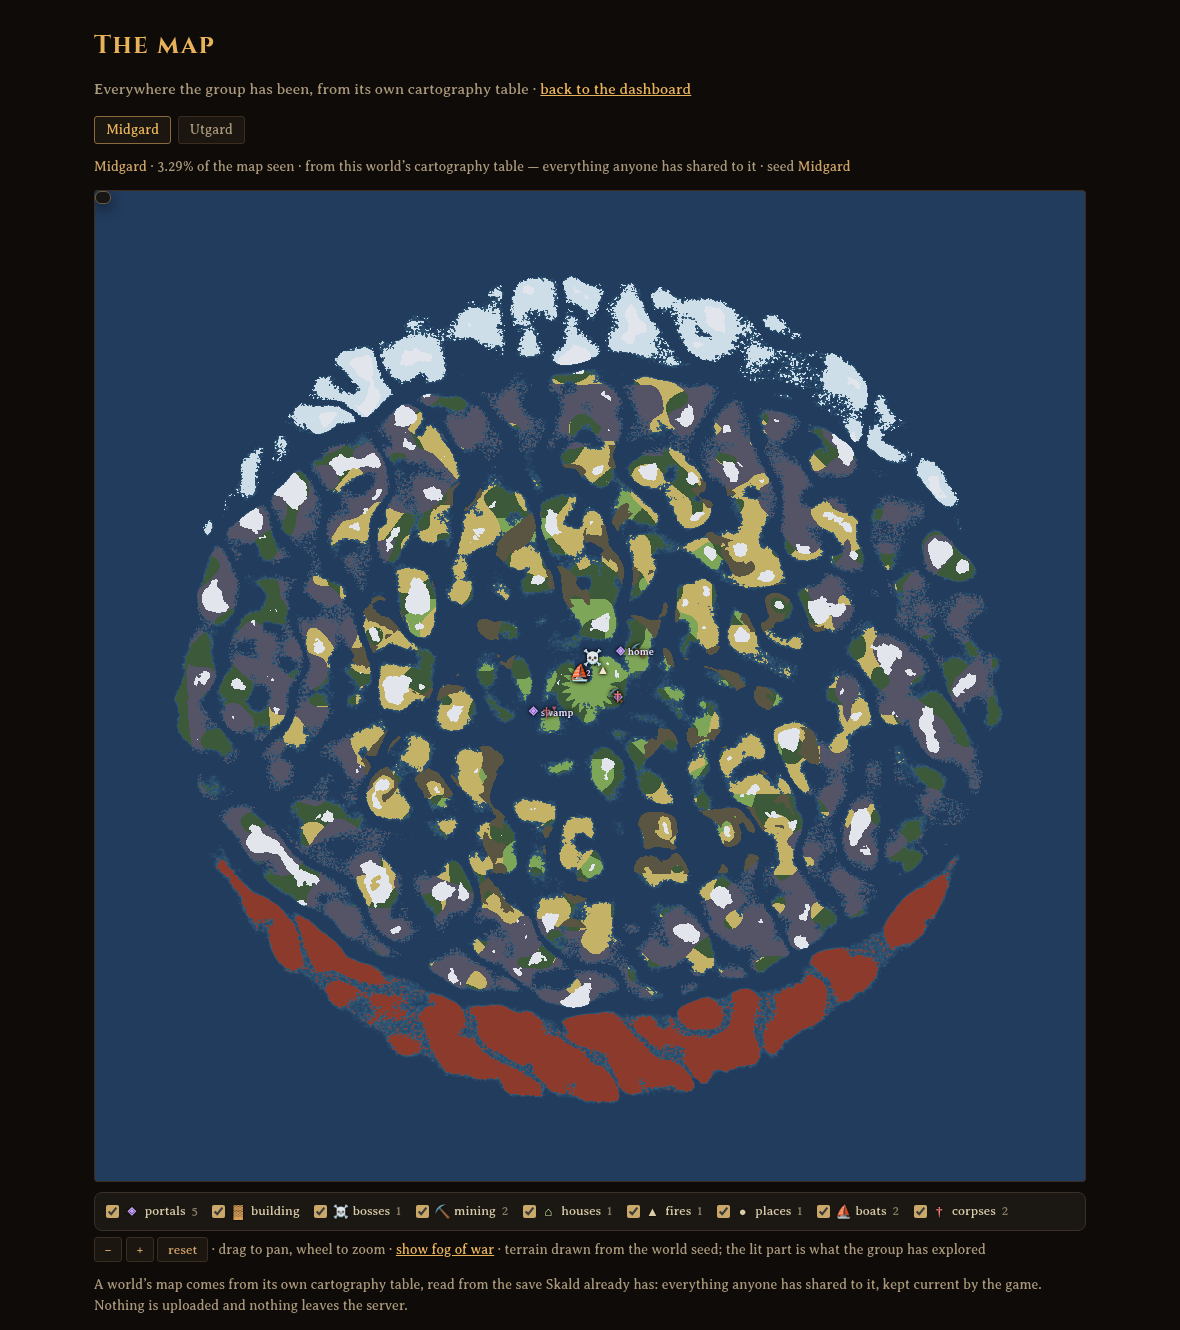
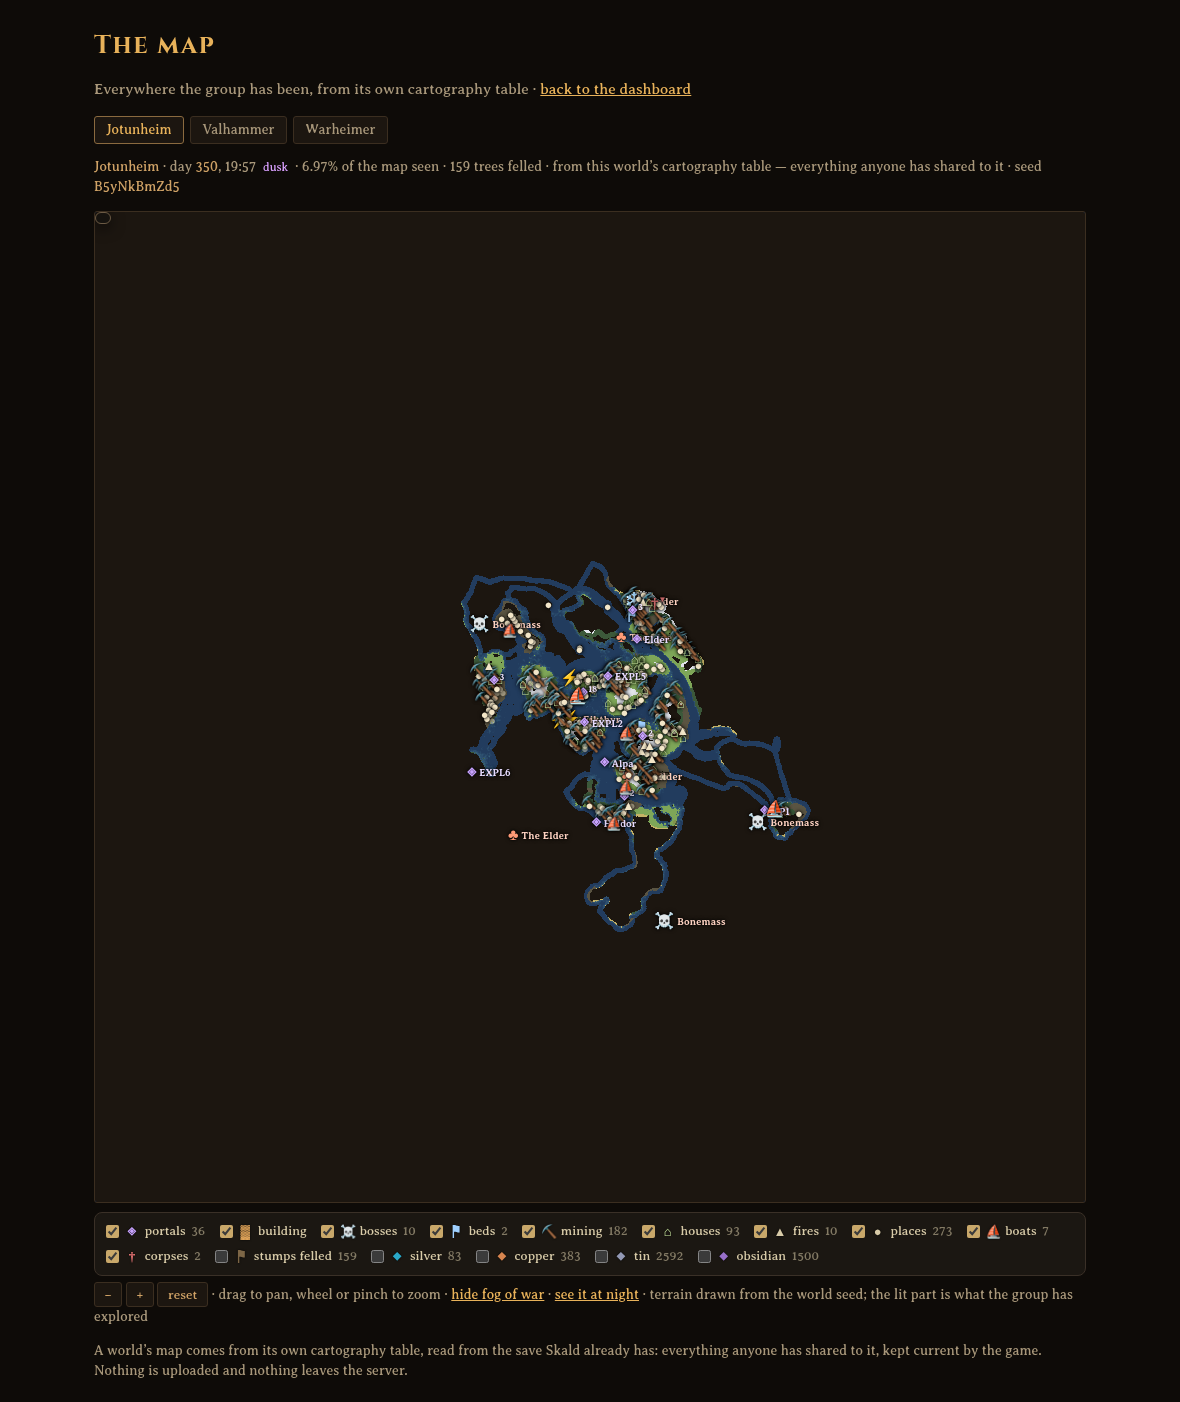
Roadmap caught up, and screenshots that show the fog (#55)
The roadmap had drifted. M3's last item -- the optional Steam Web API
key for a name and picture -- shipped; so did Discord alerts under M5.
M4 was three lines and is now the work actually done: terrain from the
seed, the layer set, boss marks, the night view, the fog gate, the
explored-share fix and pinch to zoom. The character upload under it is
marked removed rather than deleted, because it was built and then taken
out once the cartography table made it pointless.

M4 also gains the gaps found while looking: only the largest
cartography table in a world is read, pins fail silently on some older
save layouts, and portals pair by name because the save records no
target.

The map screenshot was the demo world with the fog off, which showed
the terrain but not the feature. It is Jotunheim now, fogged, with the
boss altars named. A second shot shows Valhammer at night, which is the
better world for it -- a couple of thousand pieces in the middle burning
white against embers scattered over the islands.

The M0 claim that no world names are in the repository stopped being
true the moment those went in, so it now says what is actually
promised: no player names, no Steam IDs. The map never draws a corpse's
owner -- it sits in an attribute revealed on tap -- so the pictures name
nobody.

diff --git a/ROADMAP.md b/ROADMAP.md
@@ -14,8 +14,11 @@ The code as it was, plus the tests it never had.
       implementation's own vectors
 - [x] CI: lint, tests on 3.11 and 3.14, and an image build that has to answer
       `/healthz` before it counts
-- [x] Every fixture invented. No real player names, Steam IDs or world names
-      are in this repository, and none should ever be.
+- [x] Every fixture invented. No real player names or Steam IDs are in this
+      repository, and none should ever be. The screenshots are from the
+      author's own servers, so they carry real world names and seeds — the
+      map shows nobody's name, because a corpse's owner sits in an attribute
+      the page reveals on tap rather than in the picture.
 
 Writing the tests found three real bugs, all fixed: a session whose
 `Closing socket` line never arrived was merged with a much later one and the
@@ -46,7 +49,7 @@ The work that turns "runs in my homelab" into "runs in yours".
       limitations page
 - [x] Versioned releases and a changelog
 
-## M3 — Sign in through Steam (optional)
+## M3 — Sign in through Steam (optional) ✅
 
 Identity only: the site stays as readable as you configure it, and signing in
 adds personal features. Nothing changes for people who do not.
@@ -59,25 +62,63 @@ adds personal features. Nothing changes for people who do not.
       primary unless you choose otherwise (0.3.0)
 - [x] A personal view: your playtime, your deaths, your sessions, and where
       you stand among everyone (0.4.0)
-- [ ] Steam Web API key (optional) for display name and avatar
+- [x] Steam Web API key (optional) for display name and avatar — with one
+      a signed-in player shows their Steam name and picture, without one the
+      last four digits of their ID. Read at sign-in, so a key added later
+      takes effect on the next one.
 
-## M4 — The map
+## M4 — The map ✅
 
 - [x] Upload a character file; keep only the fog of war and the map pins and
       discard the rest — structurally, since the map is read before the
-      player and the parser stops there
+      player and the parser stops there. **Since removed**: the cartography
+      table made it pointless, and an upload nobody needs is a risk nobody
+      needs.
 - [x] Merge everyone's exploration into one map of what the group has seen
       — and then discover the game already does it, in the cartography
       table, which the world save carries (0.7.0)
-- [ ] Maybe: render terrain from the world seed, so the fog sits on a real map
+- [x] Render terrain from the world seed, so the fog sits on a real map
+      (0.11.0). Valheim stores no terrain; it rebuilds the world from one
+      number, so Skald does the same arithmetic. Checked against the game's
+      own map until biomes and coastlines agreed.
+- [x] Layers over it, each a checkbox: pins by kind, portals with a line to
+      the other end when you tap one, where people have built, corpses
+      nobody has fetched including the ones in caves, boats, and stumps
+- [x] Each boss altar with its own mark and its name (0.23.0)
+- [x] A night view: the ground dimmed and construction drawn as lights, with
+      fires weighted over walls, on an absolute log scale so two worlds can
+      be compared (0.22.0)
+- [x] Ore still in the ground, off unless the owner turns it on — it retires
+      the wishbone, so it is their call rather than Skald's
+- [x] Fog off is the server's decision too, and the map never flashes
+      unfogged while it loads (0.21.0)
+- [x] Explored share measured against the playable disc rather than the
+      square it is drawn in — the corners are past the edge of the world
+      (0.21.0)
+- [x] Pinch to zoom, so the map works on the phone it is mostly read on
+      (0.23.0)
+
+### Known gaps in it
+
+- [ ] Merge every cartography table in a world. Skald shows the one with the
+      most explored, so in a world with several, writes to a smaller one are
+      invisible.
+- [ ] Pins fail to parse on some older save layouts, and fail *silently* —
+      the layers simply do not appear, which reads as a world without pins
+      rather than as a failure. It should say so.
+- [ ] Pair portals properly. The save records a tag and a creator but no
+      target, so Skald draws a line to every portal sharing a name rather
+      than to the one it actually leads to.
 
 ## M5 — Later
 
 - [x] Read a plain log file, for vanilla and systemd servers (0.2.0) — and
       a container's json log, unwrapped, though its path moves whenever the
       container is recreated
+- [x] Discord alerts when a boss falls (0.6.0). Discord webhook URLs only,
+      deliberately: a signed-in visitor choosing the address means a stricter
+      check is worth more than supporting every endpoint.
 - [ ] Prometheus metrics
-- [ ] Discord or webhook alerts when a boss falls
 - [ ] Translations
 
 ## Not planned

diff --git a/README.md b/README.md
@@ -18,14 +18,31 @@ badges](docs/screenshots/dashboard.png)
 <details>
 <summary><b>The map</b> — the world drawn from its own seed</summary>
 
-![The map: terrain generated from the world seed, with portals, buildings,
-boats and corpses over it](docs/screenshots/map.png)
+![The map: terrain drawn from the world seed, fogged to what the group has
+explored, with boss altars, portals, boats and corpses over
+it](docs/screenshots/map.png)
 
 Valheim stores no terrain: it rebuilds the world from one number every time
 it loads. Drawing a map means doing the same arithmetic rather than reading a
-picture. Over that goes what your cartography table has shared, and the
-things worth finding again — portals and where they lead, what people have
-built, boats, corpses nobody has fetched, and every stump somebody left.
+picture. Over that goes what your cartography table has shared — the lit part
+above is everywhere the group has been — and the things worth finding again:
+portals and where they lead, each boss altar named, what people have built,
+boats, corpses nobody has fetched, and every stump somebody left.
+
+</details>
+
+<details>
+<summary><b>The same world at night</b>, lit by what people have built</summary>
+
+![The night view: the ground dimmed and construction drawn as lights, a
+settlement burning white against scattered embers](docs/screenshots/map-night.png)
+
+The ground dims and building is drawn as light, the way the dark side of the
+earth looks from orbit. A settlement of a couple of thousand pieces burns
+white; a hut on a headland is one faint ember, but it is there. Fires count
+for more than walls — hearths, torches, forges and kilns are weighted six to
+one, since what you would see at night is what is burning. The scale is
+absolute and logarithmic, so two worlds can be compared.
 
 </details>
 
